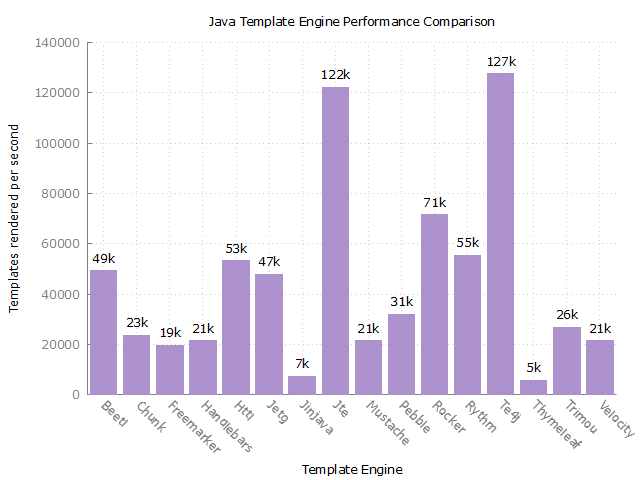
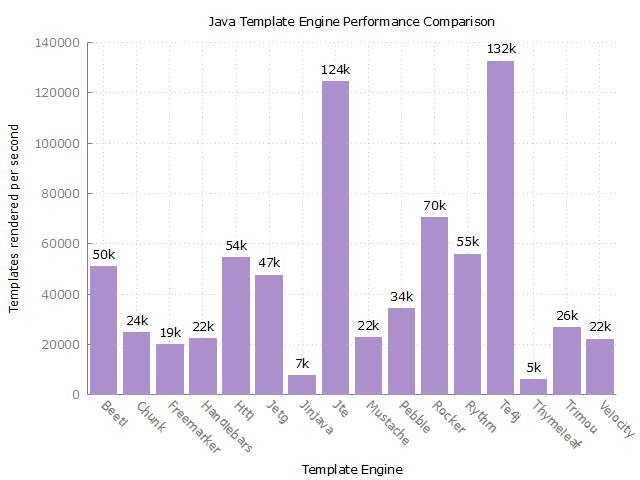
chore: bump te4j to 2.0.0

diff --git a/src/main/resources/templates/stocks.te4j.html b/src/main/resources/templates/stocks.te4j.html
@@ -43,8 +43,8 @@
 
 		<table>
 			<thead>
-				<tr><
-					th>#</th>
+				<tr>
+					<th>#</th>
 					<th>symbol</th>
 					<th>name</th>
 					<th>price</th>

diff --git a/src/main/java/com/mitchellbosecke/benchmark/Te4j.java b/src/main/java/com/mitchellbosecke/benchmark/Te4j.java
@@ -1,13 +1,14 @@
 package com.mitchellbosecke.benchmark;
 
-import com.github.lero4ka16.te4j.template.Template;
 import com.mitchellbosecke.benchmark.model.Stock;
 import org.openjdk.jmh.annotations.Benchmark;
 import org.openjdk.jmh.annotations.Setup;
+import te4j.template.Template;
+import te4j.template.context.TemplateContext;
+import te4j.template.option.output.Output;
 
 import java.io.IOException;
 import java.util.List;
-
 
 public class Te4j extends BaseBenchmark {
 
@@ -18,8 +19,13 @@ public class Te4j extends BaseBenchmark {
     public void setup() throws IOException {
         this.pojo = new Pojo(Stock.dummyItems());
 
-        this.template = com.github.lero4ka16.te4j.Te4j.custom().useResources().build()
-                .load(Pojo.class, "templates/stocks.te4j.html");
+        TemplateContext ctx = te4j.Te4j.custom()
+                .useResources()
+                .output(Output.STRING)
+                .disableAutoReloading()
+                .build();
+
+        template = ctx.load(Pojo.class).from("templates/stocks.te4j.html");
     }
 
     @Benchmark
